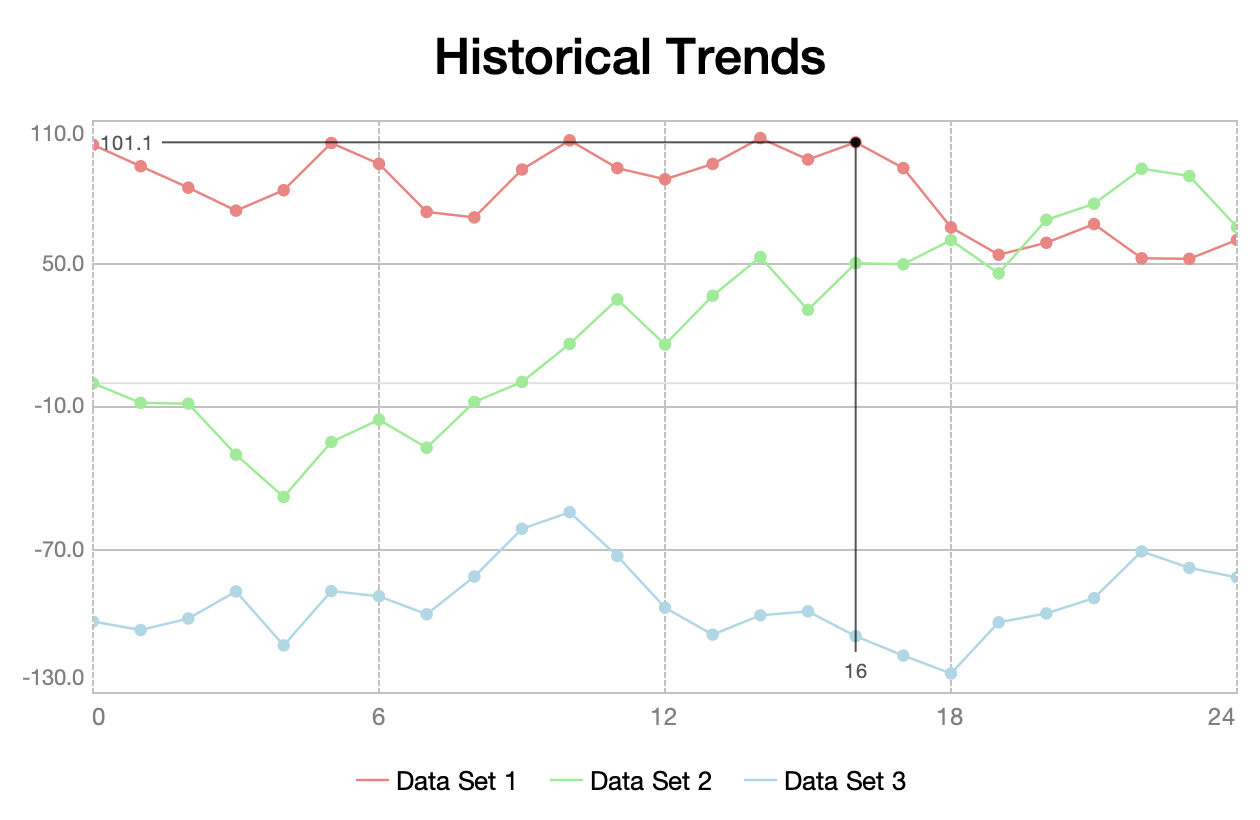
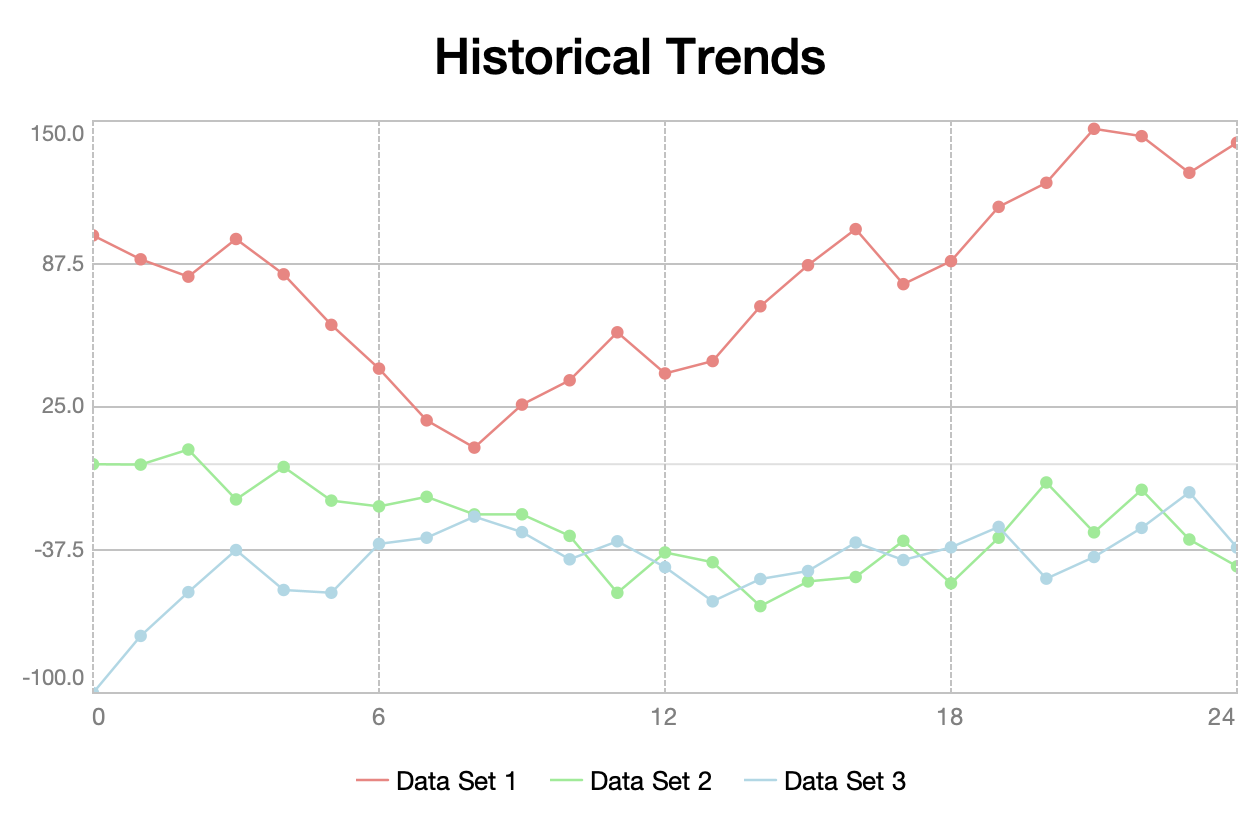
Update examples.

diff --git a/sierra-test/src/main/java/org/httprpc/sierra/test/ChartsTest.java b/sierra-test/src/main/java/org/httprpc/sierra/test/ChartsTest.java
@@ -257,19 +257,7 @@ public class ChartsTest extends JFrame implements Runnable {
 
         timeSeriesChart.setDataSets(dataSets);
 
-        if (showValueMarkers) {
-            var key = (int)(Math.random() * (n - 1));
-
-            var value = dataSets.getFirst().getDataPoints().get(key);
-
-            timeSeriesChart.setDomainMarkers(listOf(
-                new Chart.Marker<>(key, value, null, null)
-            ));
-
-            timeSeriesChart.setRangeMarkers(listOf(
-                new Chart.Marker<>(key, value, null, null)
-            ));
-        } else {
+        if (!showValueMarkers) {
             var icon = new FlatSVGIcon(getClass().getResource("icons/flag_24dp.svg"));
 
             icon = icon.derive(18, 18);
